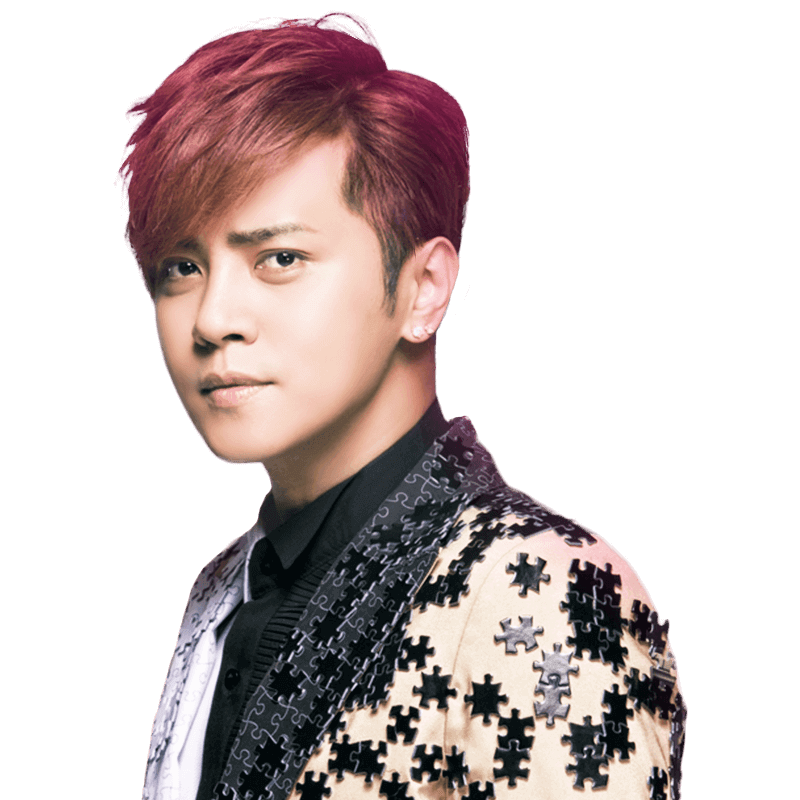
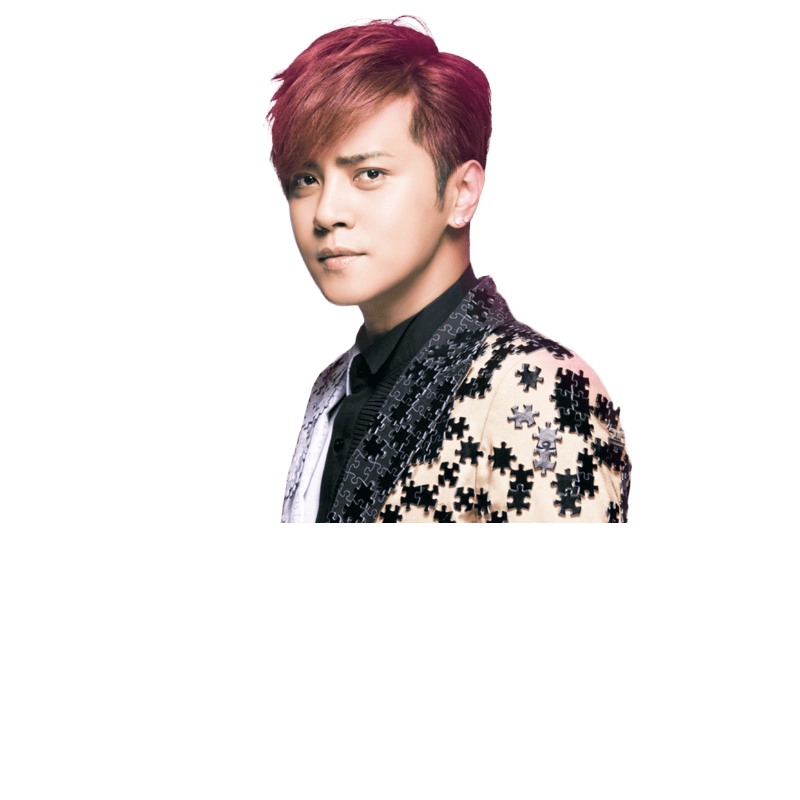
Fixed sound not passing through. Fixed images

diff --git a/demon/src/game.jsx b/demon/src/game.jsx
@@ -34,7 +34,7 @@ export default class Game extends Component {
             <Route path='info' component={Info} />
             <Route path='option' component={Option} />
           </Route>
-          <Route path='story/:chapter' component={Story} onLeave={() => core.plugins.audio.stopAll()}>
+          <Route path='story/:chapter' component={Story} onLeave={() => {}}>
             <Route path='save' component={Save} onEnter={() => core.plugins.shot.shot(191, 98)}/>
             <Route path='load' component={Load} />
             <Route path='history' component={History} />

diff --git a/demon/src/story.jsx b/demon/src/story.jsx
@@ -163,7 +163,7 @@ export default class CustomScene extends Component {
         onClick={this.handleClick.bind(this)} onTap={this.handleClick.bind(this)}>
         <Layer>
           <BGImage />
-          <FGImage width={1920} height={1500}/>
+          <FGImage width={1920} height={1080}/>
           <Selection />
           <Textwindow
             bgFile='textwindow/bg.png'
